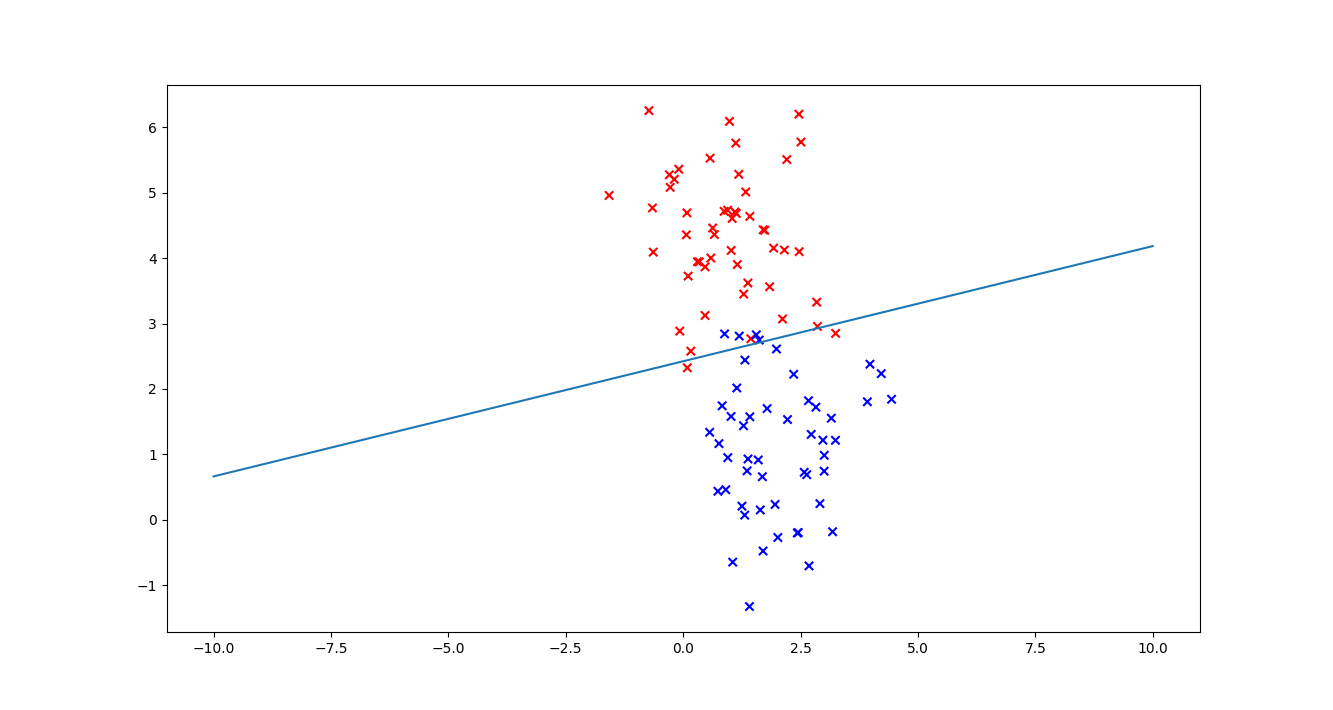
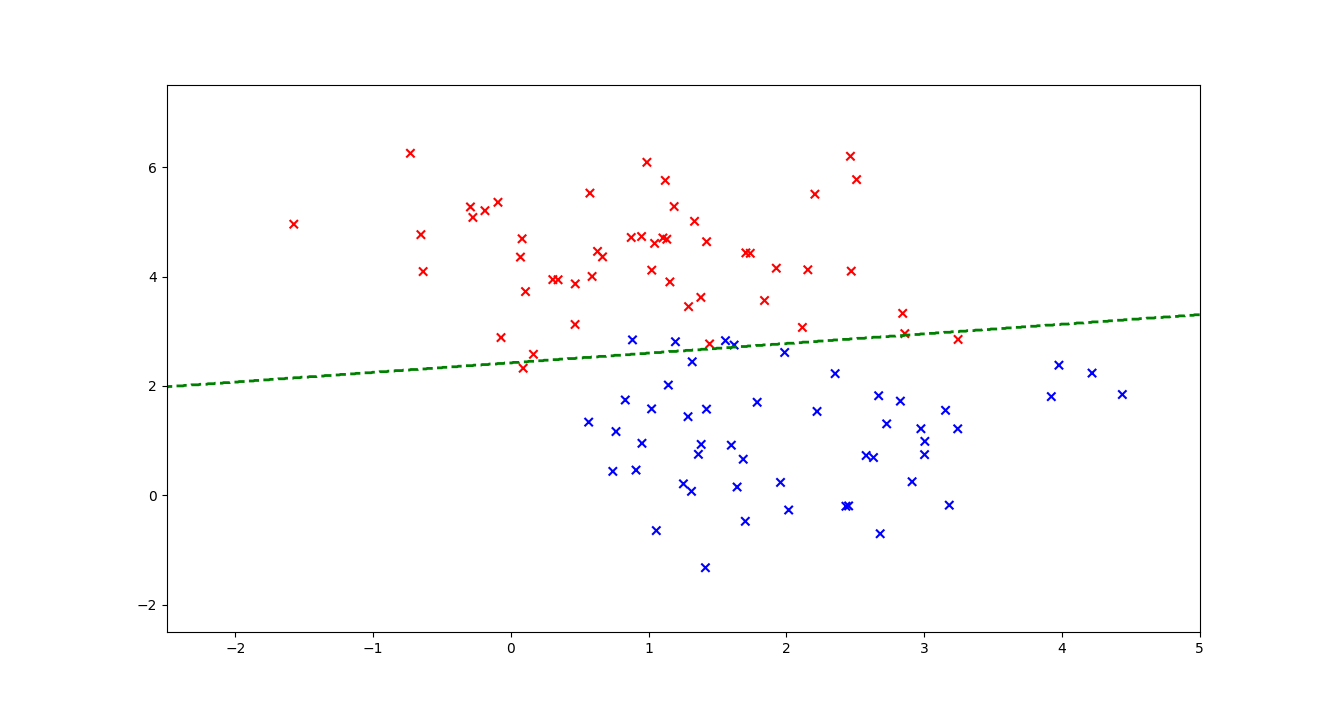
contour

diff --git a/logistic.regression.py b/logistic.regression.py
@@ -72,14 +72,17 @@ plt.show()
 
 # Plot the classification line
 if X_origin.shape[1] == 2:
-	x_opt=np.array([-10.0,10.0])
-	y_opt=np.array([0.0,0.0])
-	y_opt[0]=(-theta_save[-1,0]-x_opt[0]*theta_save[-1,1])/theta_save[-1,2]
-	y_opt[1]=(-theta_save[-1,0]-x_opt[1]*theta_save[-1,1])/theta_save[-1,2]
-
+	# prepare the contour
+	xx, yy = np.meshgrid(np.linspace(-2.5, 5, 1000), np.linspace(-2.5, 7.5, 1000))
+	X_pred = np.c_[np.ones(len(xx.ravel())), xx.ravel(), yy.ravel()]
+	Z_ = 1.0/(1 + np.exp(-np.dot(X_pred,theta_save[-1,:])))
+	Z = np.array([1 if i > 0.5 else -1 for i in Z_])
+	Z = Z.reshape(xx.shape)
+	contours = plt.contour(xx, yy, Z, levels=[0], colors = ['green'] ,linewidths=2, linestyles='dashed' )
+    
+    # prepare the training points for scatter plot	
 	colors = np.where(Y == 0, 'r', 'b')
 	plt.scatter(X_origin[:,0], X_origin[:,1], c = colors ,marker='x')
-	plt.plot(x_opt,y_opt)
 	plt.show()
 else:
 	print('More than 2 dimensions are not show the graphics')
